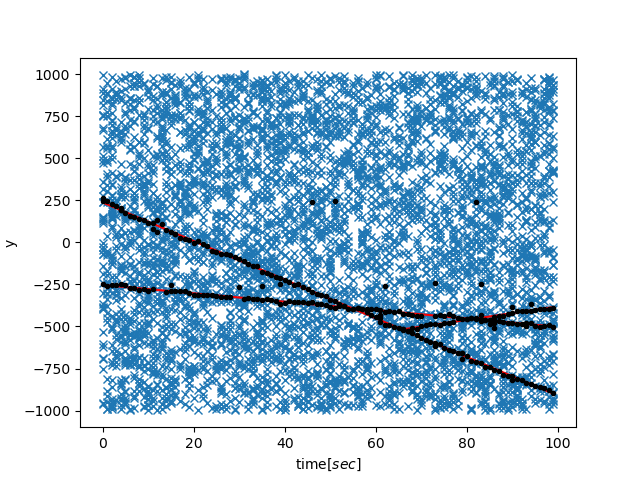
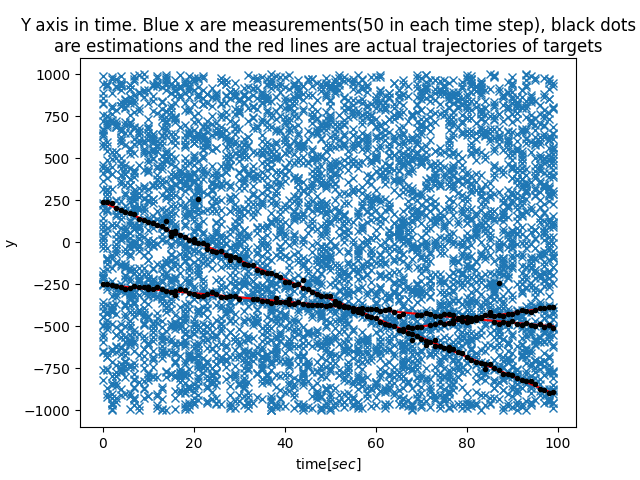
Updated comments of figures

diff --git a/gmphd.py b/gmphd.py
@@ -617,30 +617,30 @@ if __name__ == '__main__':
 
     # For example 1, uncomment the following code.
     # =================================================Example 1========================================================
-    # model = process_model_for_example_1()
-    # targets_birth_time, targets_death_time, targets_start = example1(model['num_scans'])
-    # trajectories, targets_tracks = generate_trajectories(model, targets_birth_time, targets_death_time, targets_start,
-    #                                                      noise=False)
+    model = process_model_for_example_1()
+    targets_birth_time, targets_death_time, targets_start = example1(model['num_scans'])
+    trajectories, targets_tracks = generate_trajectories(model, targets_birth_time, targets_death_time, targets_start,
+                                                         noise=False)
     # ==================================================================================================================
 
     # For example 2, uncomment the following code.
     # =================================================Example 2========================================================
-    model = process_model_for_example_2()
-    targets_birth_time, targets_death_time, targets_start, targets_spw_time_brttgt_vel = example2(model['num_scans'])
-    trajectories, targets_tracks = generate_trajectories(model, targets_birth_time, targets_death_time, targets_start,
-                                                         targets_spw_time_brttgt_vel, noise=False)
+    # model = process_model_for_example_2()
+    # targets_birth_time, targets_death_time, targets_start, targets_spw_time_brttgt_vel = example2(model['num_scans'])
+    # trajectories, targets_tracks = generate_trajectories(model, targets_birth_time, targets_death_time, targets_start,
+    #                                                      targets_spw_time_brttgt_vel, noise=False)
     # ==================================================================================================================
 
     # Collections of observations for each time step
     data = generate_measurements(model, trajectories)
 
-    # Call of the gmphd filter on the created observations collections
+    # Call of the gmphd filter for the created observations collections
     gmphd = GmphdFilter(model)
     a = time.time()
     X_collection = gmphd.filter_data(data)
     print('Filtration time: ' + str(time.time() - a) + ' sec')
 
-    # Plotting the results of filtration saved in X_collection file
+    # Plot the results of filtration saved in X_collection file
     tracks_plot = true_trajectory_tracks_plots(targets_birth_time, targets_tracks, model['T_s'])
     plt.figure()
     for key in tracks_plot:
@@ -652,10 +652,10 @@ if __name__ == '__main__':
     plt.gca().set_aspect('equal', adjustable='box')
     plt.xlabel('x')
     plt.ylabel('y')
-    # plt.title(r"Targets movement in surveilance region. Circle represents the starting point and"
-    #           r" square represents the end point.",loc='center', wrap=True)
+    plt.title(r"Targets movement in surveilance region. Circle represents the starting point and"
+              r" square represents the end point.", loc='center', wrap=True)
 
-    # plot measurements, true trajectories and estimations
+    # Plot measurements, true trajectories and estimations
     meas_time, meas_x, meas_y = extract_axis_for_plot(data, model['T_s'])
     estim_time, estim_x, estim_y = extract_axis_for_plot(X_collection, model['T_s'])
     plt.figure()
@@ -666,8 +666,9 @@ if __name__ == '__main__':
     plt.plot(estim_time, estim_x, 'o', c='k', markersize=3)
     plt.xlabel('time[$sec$]')
     plt.ylabel('x')
+    plt.title('X axis in time. Blue x are measurements(50 in each time step), '
+              'black dots are estimations and the red lines are actual trajectories of targets', loc='center', wrap=True)
 
-    # plot measurements, true trajectories and estimations
     plt.figure()
     plt.plot(meas_time, meas_y, 'x', c='C0')
     for key in tracks_plot:
@@ -676,6 +677,8 @@ if __name__ == '__main__':
     plt.plot(estim_time, estim_y, 'o', c='k', markersize=3)
     plt.xlabel('time[$sec$]')
     plt.ylabel('y')
+    plt.title('Y axis in time. Blue x are measurements(50 in each time step), '
+              'black dots are estimations and the red lines are actual trajectories of targets', loc='center', wrap=True)
 
     num_targets_truth = []
     num_targets_estimated = []
@@ -693,5 +696,5 @@ if __name__ == '__main__':
     plt.step(num_targets_truth, 'r', label='actual number of targets')
     plt.xlabel('time[$sec$]')
     plt.legend()
-    plt.title('Estimated cardinality VS actual cardinality')
-    # plt.show()
+    plt.title('Estimated cardinality VS actual cardinality', loc='center', wrap=True)
+    plt.show()

diff --git a/monte_carlo_simulations_and_plots_of_results.py b/monte_carlo_simulations_and_plots_of_results.py
@@ -94,19 +94,19 @@ if __name__ == '__main__':
         plt.figure()
         plt.plot(ospAllMean)
         plt.xlabel('Time step')
-        plt.ylabel('OSPA Dist')
+        plt.ylabel('OSPA Distance')
         plt.grid(True)
 
         plt.figure()
         plt.plot(ospLocMean)
         plt.xlabel('Time step')
-        plt.ylabel('OSPA Loc')
+        plt.ylabel('OSPA Localization')
         plt.grid(True)
 
         plt.figure()
         plt.plot(ospCarMean)
         plt.xlabel('Time step')
-        plt.ylabel('OSPA Card')
+        plt.ylabel('OSPA Cardinality')
         plt.grid(True)
 
         plt.figure()
@@ -116,5 +116,6 @@ if __name__ == '__main__':
         plt.xlabel('Time step')
         plt.ylabel('Avg. numb. of targets')
         plt.grid(True)
+        plt.title('Average number of targets with standard deviation')
         plt.show()
     # ===============================================================================
